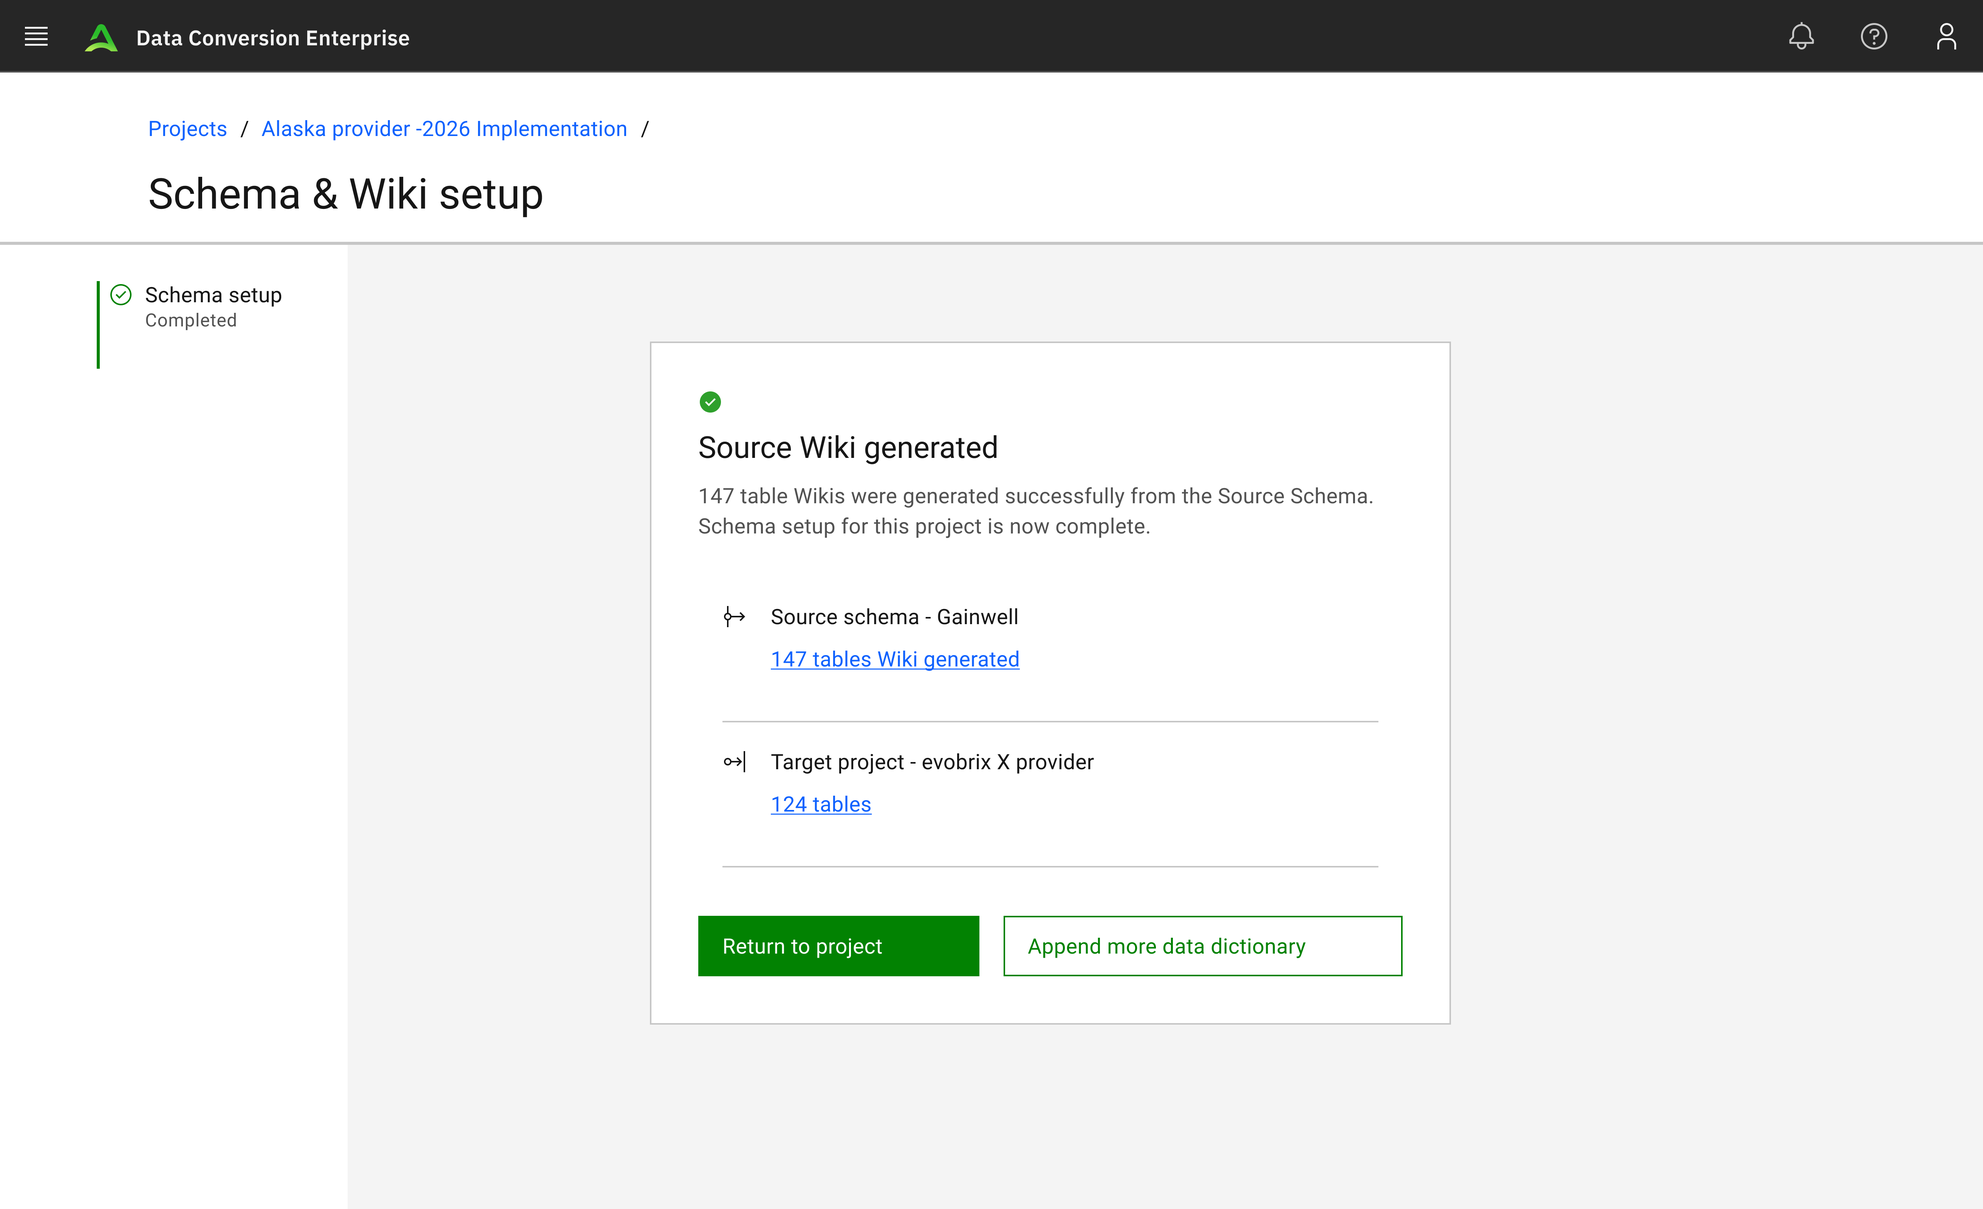
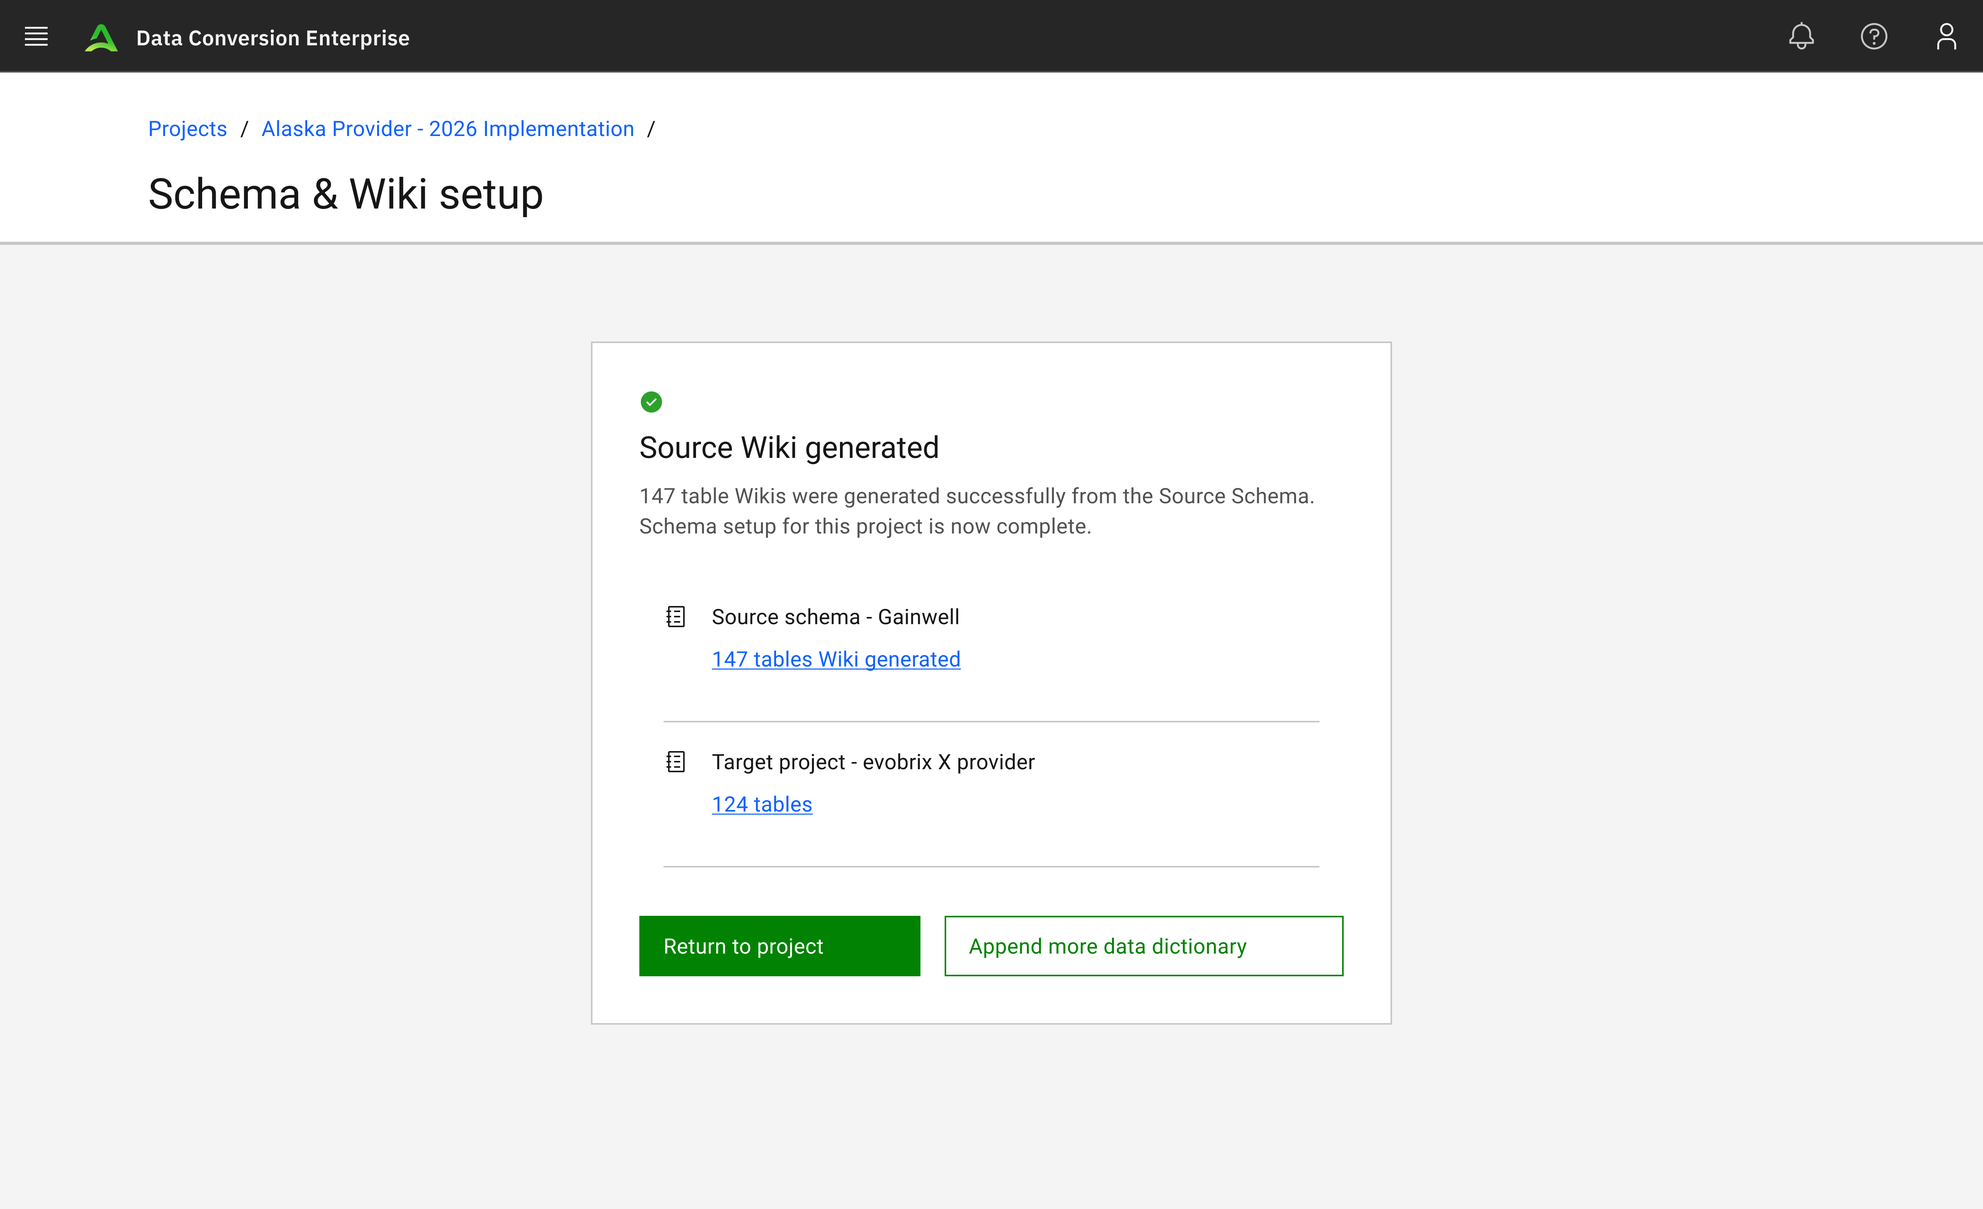
DCA: audit fixes, shorter notes, tap-to-enlarge, final screens
- Sticky notes in 02/03/04 cut down; 03 AI note removed (no AI there); 04 AI note rewritten
- Process principles row removed (fixes the triple "learn the backend")
- Requirements cards renumbered so pins read 1 to 5 down each card
- Tap/click to enlarge the hub screen, the three concepts and the shipped mapping screen (whole screen in the lightbox)
- Hero sweep: no side-rail screens, final Project Hub 2/4 in place of older hub exports
- Re-exported screens: breadcrumb "Alaska Provider - 2026 Implementation", consistent AI confidence pills
- Home card and Acentra next-case card use Project Hub 4

diff --git a/src/app/work/data-conversion-app/MappingFeature.tsx b/src/app/work/data-conversion-app/MappingFeature.tsx
@@ -1,4 +1,5 @@
 import { AnimatedSection } from '@/components/AnimatedSection'
+import { LightboxProvider, LightboxTrigger } from '@/components/Lightbox'
 import { AnnotatedImage, CropBox, SketchIntro } from './Sketch'
 
 /* 04 · Mapping & transformation, in the sketchbook layout (Sketch.tsx), Nov 24 2026. Michael picked
@@ -56,21 +57,23 @@ export function MappingFeature() {
             n="04"
             area="Mapping & transformation"
             question="How do you fit everything into one table?"
-            problem="About 1,200 target columns, each with its own decisions: the source field, how sure the AI was, any transformation, and where it was in review. Showing it all at once would bury the field in front of you."
+            problem="About 1,200 columns, each with a source, an AI score, a transformation and a review status. All at once, it’s a wall."
             did="I kept the table for scanning and comparing, and moved everything else into a panel beside it."
-            ai="Claude Design turned my user flow into three concepts in a day. I weighed them, then built the chosen one from scratch in Figma."
+            ai="Claude Design for fast ideas. I weighed them, then built the best in Figma with our design system."
           />
         </AnimatedSection>
 
         <AnimatedSection>
+          <LightboxProvider>
           <div className="mt-14 overflow-hidden rounded-2xl bg-stage-sage px-5 pt-8 sm:px-8 lg:px-10 lg:pt-10">
             <p className={label}>the three concepts, side by side</p>
             <div className="mt-4 grid grid-cols-1 gap-6 sm:grid-cols-3">
               {concepts.map((c) => (
                 <figure key={c.title} className="m-0">
-                  <div className={`overflow-hidden rounded-lg bg-white ${c.shipped ? 'ring-2 ring-accent-warm' : 'opacity-80 ring-1 ring-foundation-900/10'}`}>
+                  <div className={`relative overflow-hidden rounded-lg bg-white ${c.shipped ? 'ring-2 ring-accent-warm' : 'opacity-80 ring-1 ring-foundation-900/10'}`}>
                     {/* eslint-disable-next-line @next/next/no-img-element */}
                     <img src={c.src} alt={c.alt} loading="lazy" className="block h-auto w-full" />
+                    <LightboxTrigger always src={c.src} alt={c.alt} />
                   </div>
                   <figcaption className="mt-3">
                     <span className="block font-display text-body-sm font-medium text-foundation-900">{c.title}</span>
@@ -82,12 +85,21 @@ export function MappingFeature() {
 
             <p className={`${label} mt-10`}>what shipped</p>
             <p className="m-0 mt-3 max-w-2xl font-sans text-body-sm text-foundation-700">{indicatorsLine}</p>
-            <div className="mt-4 overflow-hidden rounded-t-xl bg-white shadow-[0_-12px_40px_-24px_rgba(0,0,0,0.3)] ring-1 ring-foundation-900/10">
+            <div className="relative mt-4 overflow-hidden rounded-t-xl bg-white shadow-[0_-12px_40px_-24px_rgba(0,0,0,0.3)] ring-1 ring-foundation-900/10">
               <CropBox ratio={shipped.width / shipped.height} x0={0} x1={1} y0={0} y1={0.82}>
                 <AnnotatedImage src={shipped.src} width={shipped.width} height={shipped.height} alt={shipped.alt} box={shipped.box} marks={shipped.marks} fontSize={70} />
               </CropBox>
+              {/* Nov 25: enlarges to the WHOLE screen, pen notes included (audit: unreadable on phones) */}
+              <LightboxTrigger
+                always
+                src={shipped.src}
+                alt={shipped.alt}
+                ratio={shipped.width / shipped.height}
+                content={<AnnotatedImage src={shipped.src} width={shipped.width} height={shipped.height} alt={shipped.alt} box={shipped.box} marks={shipped.marks} fontSize={70} />}
+              />
             </div>
           </div>
+          </LightboxProvider>
         </AnimatedSection>
       </div>
     </section>

diff --git a/src/app/work/data-conversion-app/ProcessSection.tsx b/src/app/work/data-conversion-app/ProcessSection.tsx
@@ -1,13 +1,11 @@
 // Process — after Impact, in the full-width shape Problem, MVP focus and Impact use (Nov 24 2026,
 // Michael picked P1 from /dev/process): label, heading, one-line description, the timeline card at
-// full width, then the four principles as a row underneath, one short line each.
-//
-// THE PRINCIPLES were cut to one line each. "Agree on what to cut" keeps only the MoSCoW detail:
-// the delight/polish point lives in MVP focus, so it is not repeated here.
+// full width, then Where AI helped. (Nov 25 2026: Michael removed the principles row under the
+// timeline, after the audit flagged "learn the backend" said three times.)
 //
 // SPACING. Opens on its own hairline (Impact pads its own bottom by 80px, the space above the rule;
 // pt-section is the 80px below it) and pads its own bottom by 80px for the features below.
-import { Users, ClipboardCheck, ListChecks, Eye, Sparkles } from 'lucide-react'
+import { Sparkles } from 'lucide-react'
 import { AnimatedSection } from '@/components/AnimatedSection'
 import { ProcessTimeline } from '@/components/ProcessTimeline'
 
@@ -16,13 +14,6 @@ const phases = [
   { label: 'Information architecture', items: ['Touchpoints across the journey', 'How conversion works, end to end', 'Where AI could summarise and simplify'] },
   { label: 'Design', items: ['Concepts in Claude Design', 'Final UI in Figma, with my own components'] },
   { label: 'Dev + testing', items: ['Partnered with the dev team through build and testing'] },
-]
-
-const principles = [
-  { icon: Users, term: 'Start with the people', body: 'I mapped the journey with the data engineers and project owners before any screens.' },
-  { icon: ClipboardCheck, term: 'Learn the backend first', body: 'I sat with the AI CoE to see what their models actually did.' },
-  { icon: ListChecks, term: 'Agree on what to cut', body: 'MoSCoW (must, should, could, won’t) on each screen kept scope calls quick.' },
-  { icon: Eye, term: 'Let the evidence argue', body: 'Testing showed the AI missed some business rules. That got the guidance field into scope.' },
 ]
 
 /* WHERE AI HELPED (Nov 25 2026, Michael picked A2 from /dev/ai-layouts): one sky card per stage, the
@@ -55,18 +46,6 @@ export function ProcessSection() {
             <div className="mt-10">
               <ProcessTimeline title="Process overview" phases={phases} />
             </div>
-          </AnimatedSection>
-
-          <AnimatedSection>
-            <ul className="m-0 mt-12 grid list-none grid-cols-1 gap-x-8 gap-y-6 p-0 sm:grid-cols-2 lg:grid-cols-4">
-              {principles.map(({ icon: Icon, term, body }) => (
-                <li key={term}>
-                  <Icon aria-hidden="true" size={20} strokeWidth={1.5} className="text-accent-warm" />
-                  <p className="m-0 mt-3 font-display text-body font-medium text-foundation-900">{term}</p>
-                  <p className="m-0 mt-1 font-sans text-body-sm text-foundation-700">{body}</p>
-                </li>
-              ))}
-            </ul>
           </AnimatedSection>
 
           <AnimatedSection>

diff --git a/src/app/work/data-conversion-app/HubFeature.tsx b/src/app/work/data-conversion-app/HubFeature.tsx
@@ -1,6 +1,7 @@
 'use client'
 import { useState } from 'react'
 import { AnimatedSection } from '@/components/AnimatedSection'
+import { LightboxProvider, LightboxTrigger } from '@/components/Lightbox'
 import { AnnotatedImage, CropBox, SketchIntro } from './Sketch'
 
 /* 02 · Project hub (second: it is the home every later step opens from), in the sketchbook layout (Nov 25 2026). Michael picked R2 from /dev/hub-layouts,
@@ -54,9 +55,9 @@ export function HubFeature() {
             n="02"
             area="Project hub"
             question="What do people see while the back end does the work?"
-            problem="The first concept split one process across separate menu tabs: sources, dictionary, mapping, quality. Working on one state meant hopping between them, with nothing showing where it stood or what was still running."
-            did="One hub with a card for each stage, from schema to mapping to ETL jobs, which move the data into the new system. Each card says what’s running, what failed and why, and moves you on to the next step."
-            ai="A custom GPT I set up on marketing’s illustration style made the new mapping and ETL illustrations. Marketing approved them."
+            problem="One process split across separate menu tabs. You hopped between them, with no view of where a state stood."
+            did="One hub, a card per stage. Each says what’s running, what failed, and what’s next."
+            ai="A custom GPT drew the new illustrations in marketing’s style. Marketing approved them."
           />
         </AnimatedSection>
 
@@ -110,10 +111,14 @@ export function HubFeature() {
                   })}
                 </div>
                 <div id="hub-panel" role="tabpanel" aria-labelledby={`hub-tab-${cur.id}`} className="mt-4">
-                  <div className="overflow-hidden rounded-xl bg-white ring-1 ring-foundation-900/10">
-                    {/* eslint-disable-next-line @next/next/no-img-element */}
-                    <img key={cur.src} src={cur.src} alt={cur.alt} width={W} height={H} className="block h-auto w-full" />
-                  </div>
+                  {/* Nov 25: tap or click for the whole screen, large (audit: unreadable on phones) */}
+                  <LightboxProvider>
+                    <div className="relative overflow-hidden rounded-xl bg-white ring-1 ring-foundation-900/10">
+                      {/* eslint-disable-next-line @next/next/no-img-element */}
+                      <img key={cur.src} src={cur.src} alt={cur.alt} width={W} height={H} className="block h-auto w-full" />
+                      <LightboxTrigger always src={cur.src} alt={cur.alt} ratio={W / H} />
+                    </div>
+                  </LightboxProvider>
                   <p className="m-0 mt-3 max-w-2xl font-sans text-body-sm text-foundation-700">{cur.line}</p>
                 </div>
               </div>

diff --git a/src/app/work/data-conversion-app/approvedScreen.ts b/src/app/work/data-conversion-app/approvedScreen.ts
@@ -7,18 +7,18 @@ export type Issue = { title: string; detail: string; pin: [number, number] }
 export const issues: Issue[] = [
   { title: 'One process, seven menus', detail: 'Mapping a field by hand meant going to another page.', pin: [15.5, 12] },
   { title: 'Metric cards with no action', detail: 'The top row showed counts and details nobody needed. Alerts were just numbers, with no way to open or fix them.', pin: [45.1, 15.5] },
-  { title: 'A button nobody understood', detail: 'No one knew what “Run Mapping” did once the mapping was created.', pin: [89.7, 10.3] },
-  { title: '“Accept” was the only action', detail: 'You couldn’t change the AI’s pick, even on a high-confidence row.', pin: [80.3, 38.5] },
   // pin at the top edge of the AI panel, so it reads as the panel's label (was at its foot, by the help button)
   { title: 'A side panel that cost space', detail: 'The AI assistant took up about a fifth of the screen and gave nothing useful at this step.', pin: [90.9, 27.6] },
+  { title: 'A button nobody understood', detail: 'No one knew what “Run Mapping” did once the mapping was created.', pin: [89.7, 10.3] },
+  { title: '“Accept” was the only action', detail: 'You couldn’t change the AI’s pick, even on a high-confidence row.', pin: [80.3, 38.5] },
 ]
 
-/* The same five, grouped under usability heuristics for the "before" card (Nov 24 2026). Numbers
-   keep matching the pins, so the groups list them out of order on purpose. */
+/* The same five, grouped under usability heuristics for the "before" card. Nov 25 2026 (Michael:
+   "why is 1 below 2 and 3"): issues and groups reordered so the numbers read 1 to 5 down the card. */
 export const issueGroups: { heading: string; heuristics: string[]; issues: number[] }[] = [
-  { heading: 'Wasted screen space', heuristics: ['Aesthetic and minimalist design'], issues: [2, 5] },
   { heading: 'A broken flow', heuristics: ['Flexibility and efficiency of use'], issues: [1] },
-  { heading: 'Unclear or missing actions', heuristics: ['Visibility of system status', 'User control and freedom'], issues: [3, 4] },
+  { heading: 'Wasted screen space', heuristics: ['Aesthetic and minimalist design'], issues: [2, 3] },
+  { heading: 'Unclear or missing actions', heuristics: ['Visibility of system status', 'User control and freedom'], issues: [4, 5] },
 ]
 
 /** The Requirements section's anchor, which every FixesTag links back to. */

diff --git a/src/app/work/data-conversion-app/HeroSweep.tsx b/src/app/work/data-conversion-app/HeroSweep.tsx
@@ -19,13 +19,17 @@ const D = '/images/data-conversion-app/'
 // Grid order, three columns: top row left/centre/right, then bottom row. `from` is where each
 // screen starts, as a share of its own size, pointing away from the centre; `order` is its place
 // in the deal (the mapping screen, top centre, goes last).
+// Nov 25 2026: the two Schema & Wiki screens swapped for the final no-rail versions (Michael: the side
+// rail is gone from the design). upload-and-prompt.png -> Schema Mapping with Wiki Guidance; success-and-append.png
+// was re-exported without the rail, so it stays. The two hub screens now use the final Project Hub 4 / 2
+// (were hub-project-completed.png, an older layout, and Mapping Screen - In Progress.png, old illustration + typo).
 const SCREENS = [
-  { src: D + 'schema-mapping/upload-and-prompt.png', w: 5248, h: 3580, from: { x: '-70%', y: '-30%' }, order: 1 },
+  { src: D + 'schema-mapping/Schema%20Mapping%20with%20Wiki%20Guidance.png', w: 5248, h: 3580, from: { x: '-70%', y: '-30%' }, order: 1 },
   { src: D + 'mapping-variants/Table%20Mapping%20screen.png', w: 3936, h: 3045, from: { x: '0%', y: '-80%' }, order: 5 },
-  { src: D + 'project-hub/hub-project-completed.png', w: 2624, h: 1902, from: { x: '70%', y: '-30%' }, order: 4 },
+  { src: D + 'project-hub/Project%20Hub%204.png', w: 5248, h: 3804, from: { x: '70%', y: '-30%' }, order: 4 },
   { src: D + 'schema-mapping/documents-list.png', w: 5248, h: 3804, from: { x: '-70%', y: '40%' }, order: 0 },
   { src: D + 'schema-mapping/success-and-append.png', w: 5248, h: 3200, from: { x: '0%', y: '80%' }, order: 2 },
-  { src: D + 'project-hub/Mapping%20Screen%20-%20In%20Progress.png', w: 5248, h: 3804, from: { x: '70%', y: '40%' }, order: 3 },
+  { src: D + 'project-hub/Project%20Hub%202.png', w: 5248, h: 3804, from: { x: '70%', y: '40%' }, order: 3 },
 ]
 
 const TRAVEL = duration.slow * 1.5 // 0.9s: a full-stage move, longer than a section's settle

diff --git a/src/app/work/data-conversion-app/RequirementsFeature.tsx b/src/app/work/data-conversion-app/RequirementsFeature.tsx
@@ -38,9 +38,9 @@ type Item = Issue
 const screenCircles = [
   'M 60 150 C 220 130, 380 150, 385 300 C 395 520, 392 760, 370 900 C 300 935, 120 930, 50 905 C 22 700, 25 400, 42 190 C 45 165, 70 152, 110 148',
   'M 440 232 C 900 220, 1700 222, 2215 232 C 2245 260, 2245 370, 2215 395 C 1700 405, 900 404, 430 395 C 405 370, 405 260, 470 230',
+  'M 2160 405 C 2300 398, 2470 400, 2512 420 C 2525 700, 2522 1100, 2510 1405 C 2400 1418, 2250 1418, 2135 1405 C 2125 1100, 2125 700, 2135 430 C 2138 412, 2150 406, 2190 404',
   'M 2300 150 C 2380 140, 2480 142, 2508 160 C 2522 185, 2515 215, 2490 222 C 2400 230, 2320 228, 2295 215 C 2282 195, 2285 160, 2330 148',
   'M 1990 575 C 2060 565, 2095 600, 2092 820 C 2092 1000, 2075 1075, 2020 1078 C 1960 1080, 1950 1000, 1952 820 C 1955 640, 1960 585, 2010 572',
-  'M 2160 405 C 2300 398, 2470 400, 2512 420 C 2525 700, 2522 1100, 2510 1405 C 2400 1418, 2250 1418, 2135 1405 C 2125 1100, 2125 700, 2135 430 C 2138 412, 2150 406, 2190 404',
 ]
 const SCREEN = {
   src: '/images/data-conversion-app/initial-designs/ai-coe-first-screen.png',
@@ -65,8 +65,9 @@ const steps: Item[] = [
 type Group = { heading: string; tags: string[]; issues: number[] }
 const beforeGroups: Group[] = issueGroups.map((g) => ({ heading: g.heading, tags: g.heuristics, issues: g.issues }))
 const afterGroups: Group[] = [
-  { heading: issueGroups[0].heading, tags: [], issues: [2, 3] },
-  { heading: issueGroups[1].heading, tags: [], issues: [1] },
+  // Nov 25: groups reordered (broken flow first) so the pins read 1 to 5 down the card
+  { heading: issueGroups[0].heading, tags: [], issues: [1] },
+  { heading: issueGroups[1].heading, tags: [], issues: [2, 3] },
   { heading: issueGroups[2].heading, tags: [], issues: [4, 5] },
 ]
 const mapCircles = [

diff --git a/src/app/work/data-conversion-app/SchemaFeature.tsx b/src/app/work/data-conversion-app/SchemaFeature.tsx
@@ -65,10 +65,8 @@ export function SchemaFeature() {
             n="03"
             area="Schema & Wiki creation"
             question="What does the AI need to know about each state?"
-            problem="Every state’s data has its own quirks, and we couldn’t know them all before the MVP. Without that context, the AI couldn’t map every detail on its own."
-            did="After implementation teams raised it, I added an optional guidance field. People can now write rules in plain words, like “Remove _TB tables if _TR is present”, to drop old tables that have a newer version."
-            ai="ChatGPT Enterprise drafted the screen copy from marketing’s writing guidelines, and I edited it. Figma AI filled the tables with realistic sample data."
-          />
+            problem="Every state’s data has quirks we couldn’t know before the MVP, so the AI couldn’t map every detail alone."
+            did="I added an optional guidance field for rules in plain words, like “Remove _TB tables if _TR is present”."          />
         </AnimatedSection>
 
         <AnimatedSection>

diff --git a/src/app/work/acentra-health/page.tsx b/src/app/work/acentra-health/page.tsx
@@ -104,7 +104,7 @@ const moreWork: MoreWorkItem[] = [
     desc: 'Designed a lightweight tool that mapped, previewed, and safely converted legacy case data ahead of a system cutover, in two weeks.',
     href: '/work/data-conversion-app',
     // the home page card's cover and stage tint for this case study (content.ts)
-    img: '/images/data-conversion-app/project-hub/hub-project-completed.png',
+    img: '/images/data-conversion-app/project-hub/Project%20Hub%204.png',
     stage: 'bg-stage-sky',
     meta: 'Product design · 2 weeks',
   },

diff --git a/src/app/_home/content.ts b/src/app/_home/content.ts
@@ -235,7 +235,7 @@ export const caseStudies: CaseStudy[] = [
     status: 'Draft',
     summary: 'An AI drafts the data mappings; people review and correct them.',
     image: {
-      src: '/images/data-conversion-app/project-hub/hub-project-completed.png',
+      src: '/images/data-conversion-app/project-hub/Project%20Hub%204.png',
       alt: 'Data Conversion App project hub showing a completed mapping project',
     },
     mediaPlaceholder: true,
